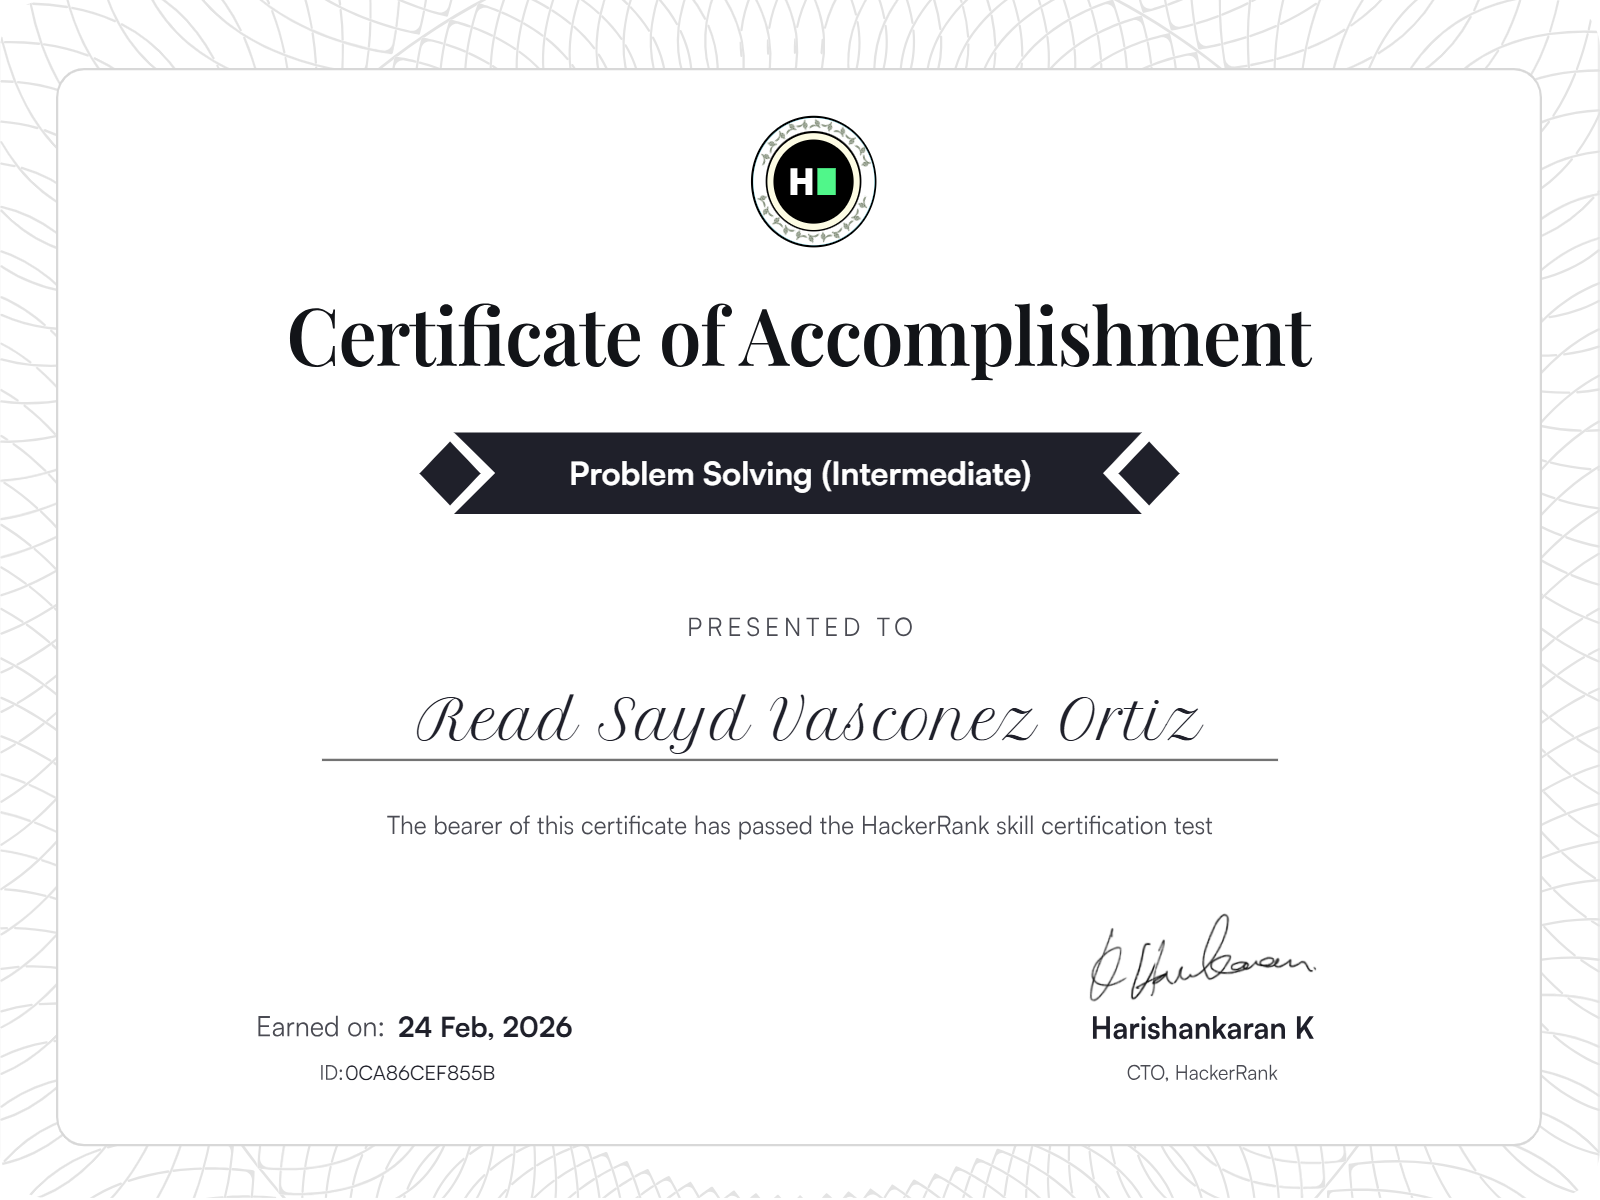
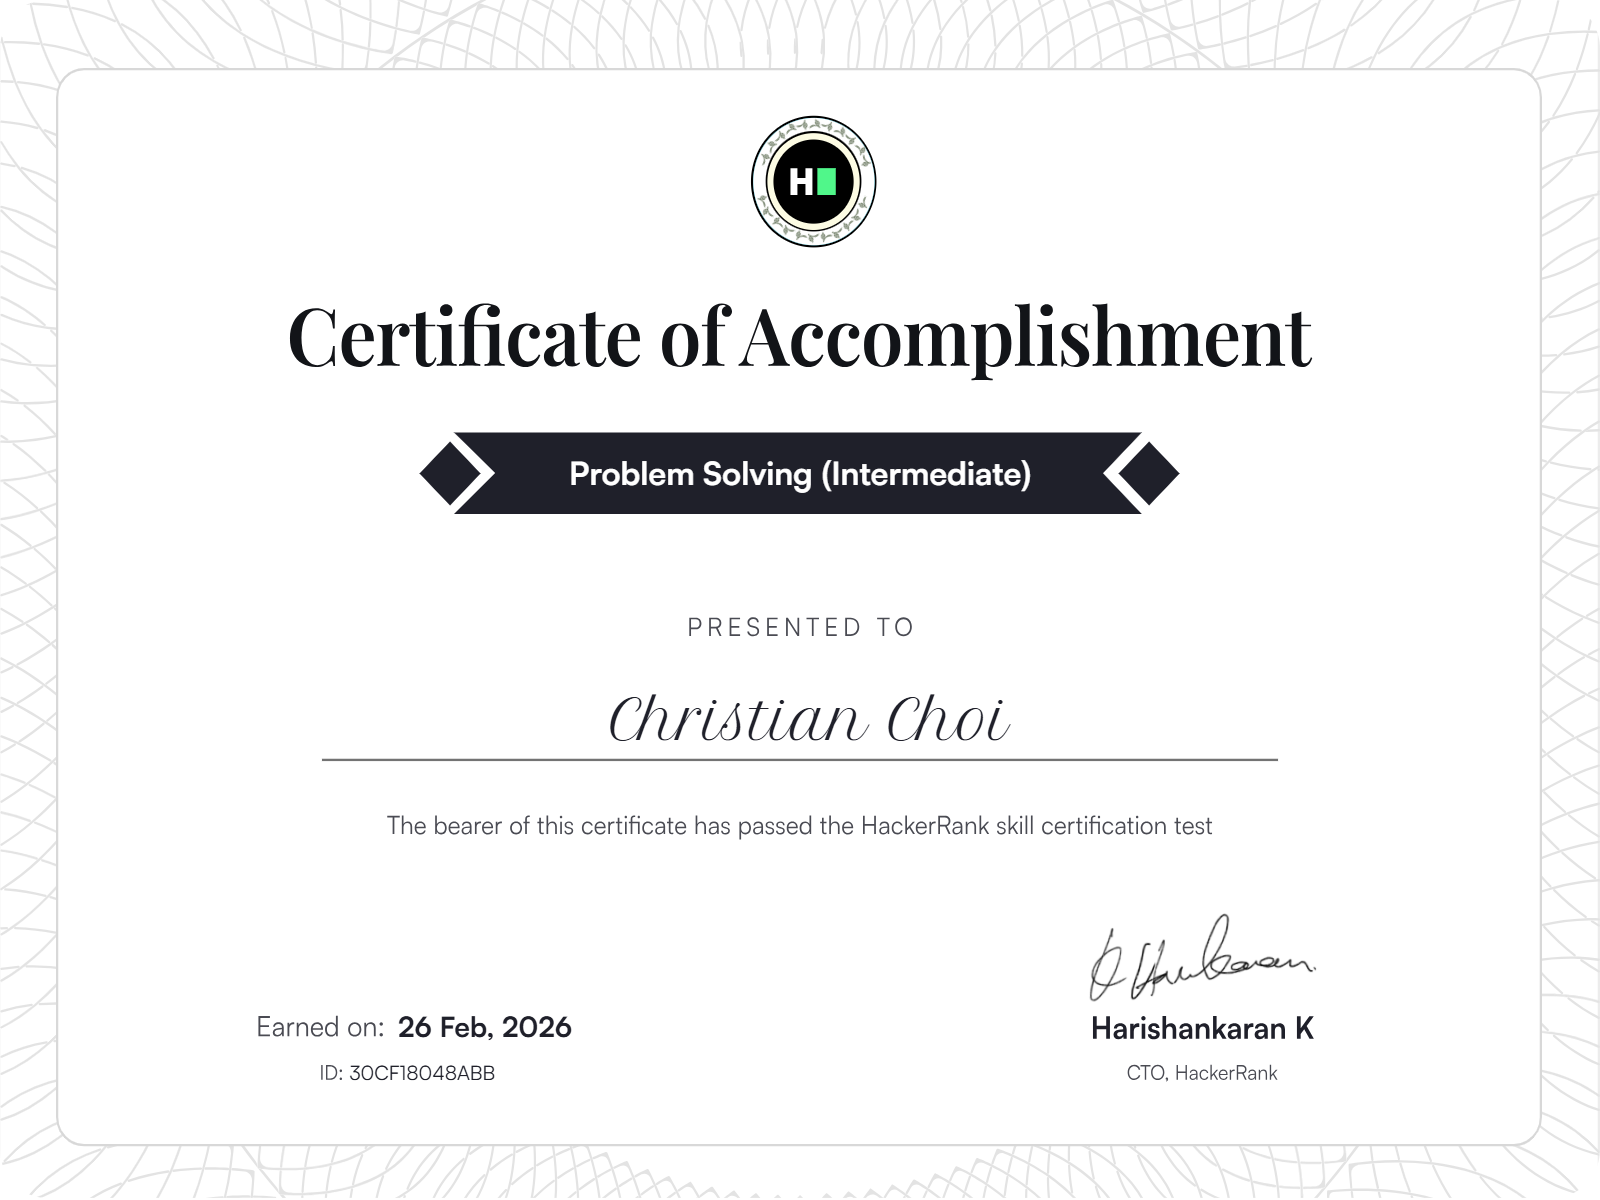
fix for Christian

Changed region(s): [[0.25, 0.5858, 0.75, 0.6167], [0.2188, 0.8325, 0.2812, 0.925], [0.3125, 0.8325, 0.3438, 0.8633]]

diff --git a/src/portfolio.js b/src/portfolio.js
@@ -20,8 +20,8 @@ const illustration = {
 };
 
 const greeting = {
-  username: "Read Vasconez",
-  title: "Hi, I'm Read Vasconez",
+  username: "Christian Choi",
+  title: "Hi, I'm Christian Choi",
   subTitle: emoji(
     `Senior Software Engineer with 7+ years experience in Full-Stack, Backend, Frontend & Mobile App Development (Android & iOS). 
 Designing high-performance, scalable systems, AI/ML integrations, Cloud (AWS, GCP, Azure), CI/CD, and DevOps. Focused on stability, reliability, and long-term maintainability.`
@@ -390,17 +390,7 @@ const achievementSection = {
       footerLink: [
         {
           name: "View",
-          url: "https://www.hackerrank.com/certificates/0c838da72779"
-        }
-      ]
-    },
-    {
-      title: "Frontend Developer",
-      image: require("./assets/images/certificates_frontend_react.png"),
-      footerLink: [
-        {
-          name: "View",
-          url: "https://www.hackerrank.com/certificates/9f74437d2bfb"
+          url: "https://www.hackerrank.com/certificates/5d5946ae9fb7"
         }
       ]
     },
@@ -410,27 +400,27 @@ const achievementSection = {
       footerLink: [
         {
           name: "View",
-          url: "https://www.hackerrank.com/certificates/0ca86cef855b"
+          url: "https://www.hackerrank.com/certificates/30cf18048abb"
         }
       ]
     },
     {
       title: "Go",
-      image: require("./assets/images/certificates_language_go.png"),
+      image: require("./assets/images/certificates_go.png"),
       footerLink: [
         {
           name: "View",
-          url: "https://www.hackerrank.com/certificates/6c58048da395"
+          url: "https://www.hackerrank.com/certificates/27a2ce127bc6"
         }
       ]
     },
     {
-      title: "JavaScript",
-      image: require("./assets/images/certificates_language_javascript.png"),
+      title: "Rest API",
+      image: require("./assets/images/certificates_restapi.png"),
       footerLink: [
         {
           name: "View",
-          url: "https://www.hackerrank.com/certificates/b1539890278d"
+          url: "https://www.hackerrank.com/certificates/602dfff04b62"
         }
       ]
     },
@@ -440,7 +430,7 @@ const achievementSection = {
       footerLink: [
         {
           name: "View",
-          url: "https://www.hackerrank.com/certificates/b179376edf99"
+          url: "https://www.hackerrank.com/certificates/53554c940c0b"
         }
       ]
     },

diff --git a/public/index.html b/public/index.html
@@ -5,23 +5,23 @@
     <meta name="viewport" content="width=device-width, initial-scale=1" />
 
     <!-- Edit meta tags for SEO -->
-    <title>Read Vasconez</title>
-    <meta name="title" content="Read Vasconez">
-    <meta name="description" content="Read Vasconez">
+    <title>Christian Choi</title>
+    <meta name="title" content="Christian Choi">
+    <meta name="description" content="Christian Choi">
 
     <!-- Open Graph / Facebook -->
     <meta property="og:type" content="website">
     <meta property="og:url" content="https://developerfolio.js.org/">
-    <meta property="og:title" content="Read Vasconez">
-    <meta property="og:description" content="Read Vasconez">
+    <meta property="og:title" content="Christian Choi">
+    <meta property="og:description" content="Christian Choi">
     <!-- Link to a hosted image -->
     <!-- <meta property="og:image" content=""> -->
     
     <!-- Twitter -->
     <meta property="twitter:card" content="summary_large_image">
     <meta property="twitter:url" content="https://developerfolio.js.org/">
-    <meta property="twitter:title" content="Read Vasconez">
-    <meta property="twitter:description" content="Read Vasconez">
+    <meta property="twitter:title" content="Christian Choi">
+    <meta property="twitter:description" content="Christian Choi">
     <!-- Link to a hosted image -->
     <!-- <meta property="twitter:image" content=""> -->
 
